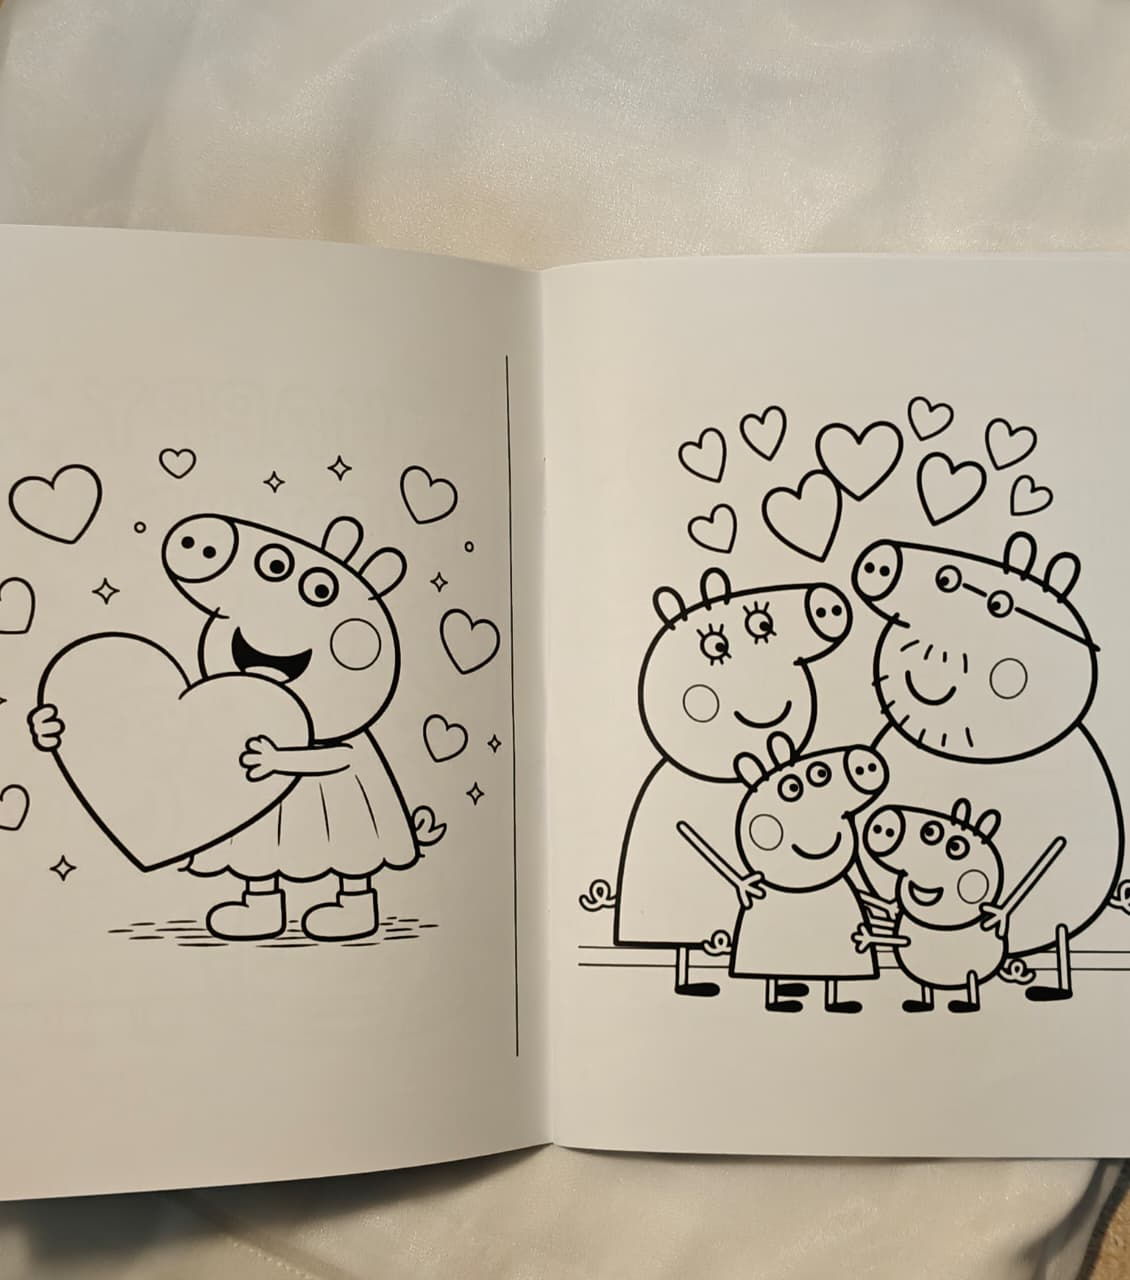
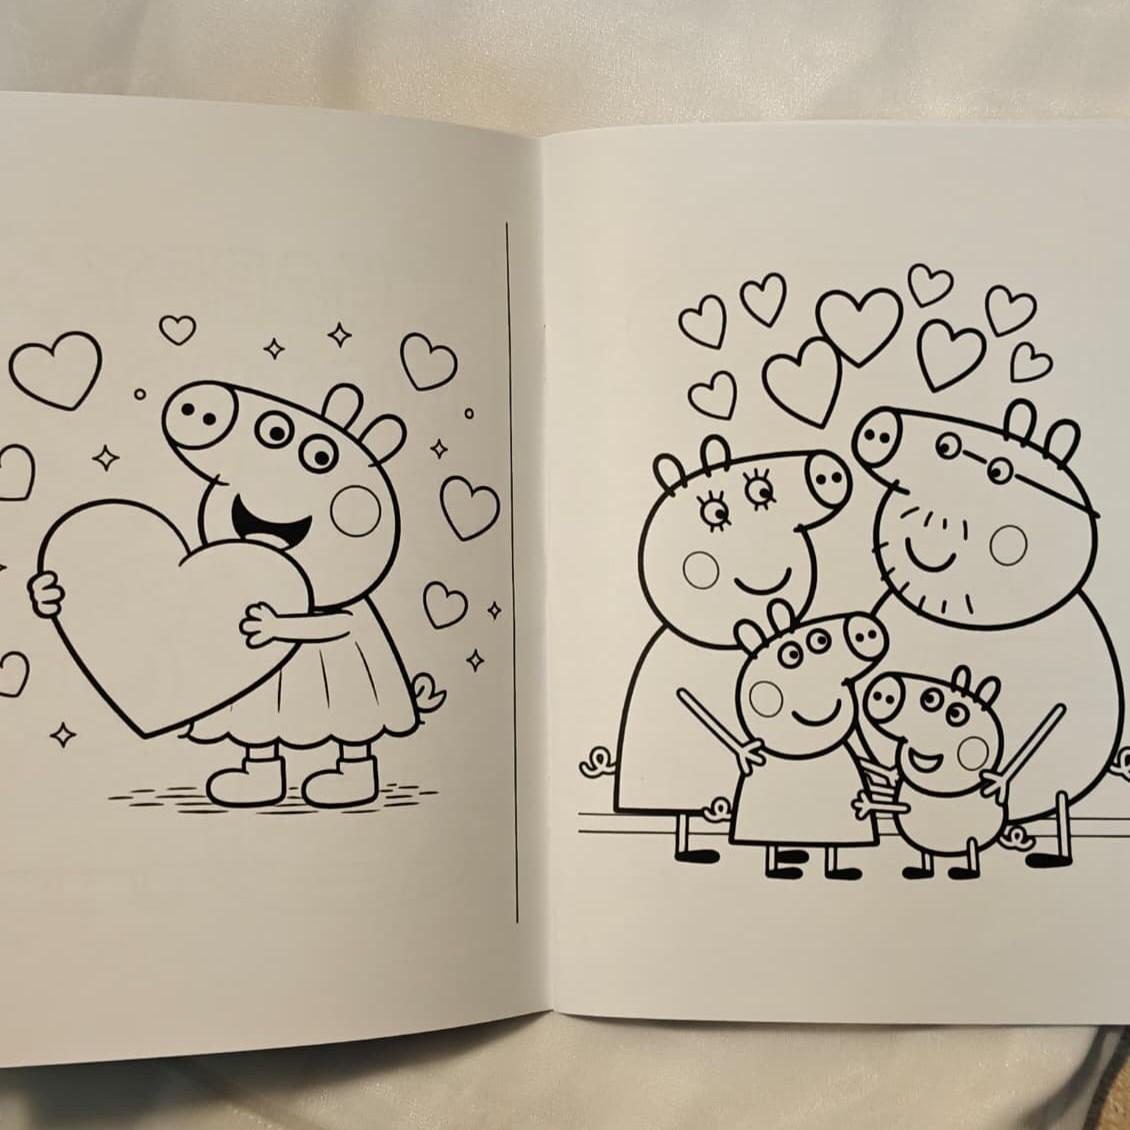
fixed ratio

diff --git a/src/categoryMeta.js b/src/categoryMeta.js
@@ -5,7 +5,7 @@ export const CATEGORY_META = [
   { id: "bigposters", label: "Big Wall Posters", icon: "bigposter", aspectRatio: "3 / 4" },
   { id: "frame", label: "Wall Frames", icon: "frame", aspectRatio: "3 / 4" },
   { id: "bookmarks", label: "Bookmarks", icon: "bookmark", aspectRatio: "4 / 5" },
-  { id: "Coloring Book", label: "Coloring Books", icon: "coloringbookcol" },
+  { id: "Coloring Book", label: "Coloring Books", icon: "coloringbookcol", aspectRatio: "1 / 1" },
   { id: "memopads", label: "Memo Pads", icon: "pad" },
   { id: "notebook", label: "Journals & Notepads", icon: "notebook" },
   { id: "sticky", label: "Sticky Notes", icon: "sticky", aspectRatio: "4 / 3" },
